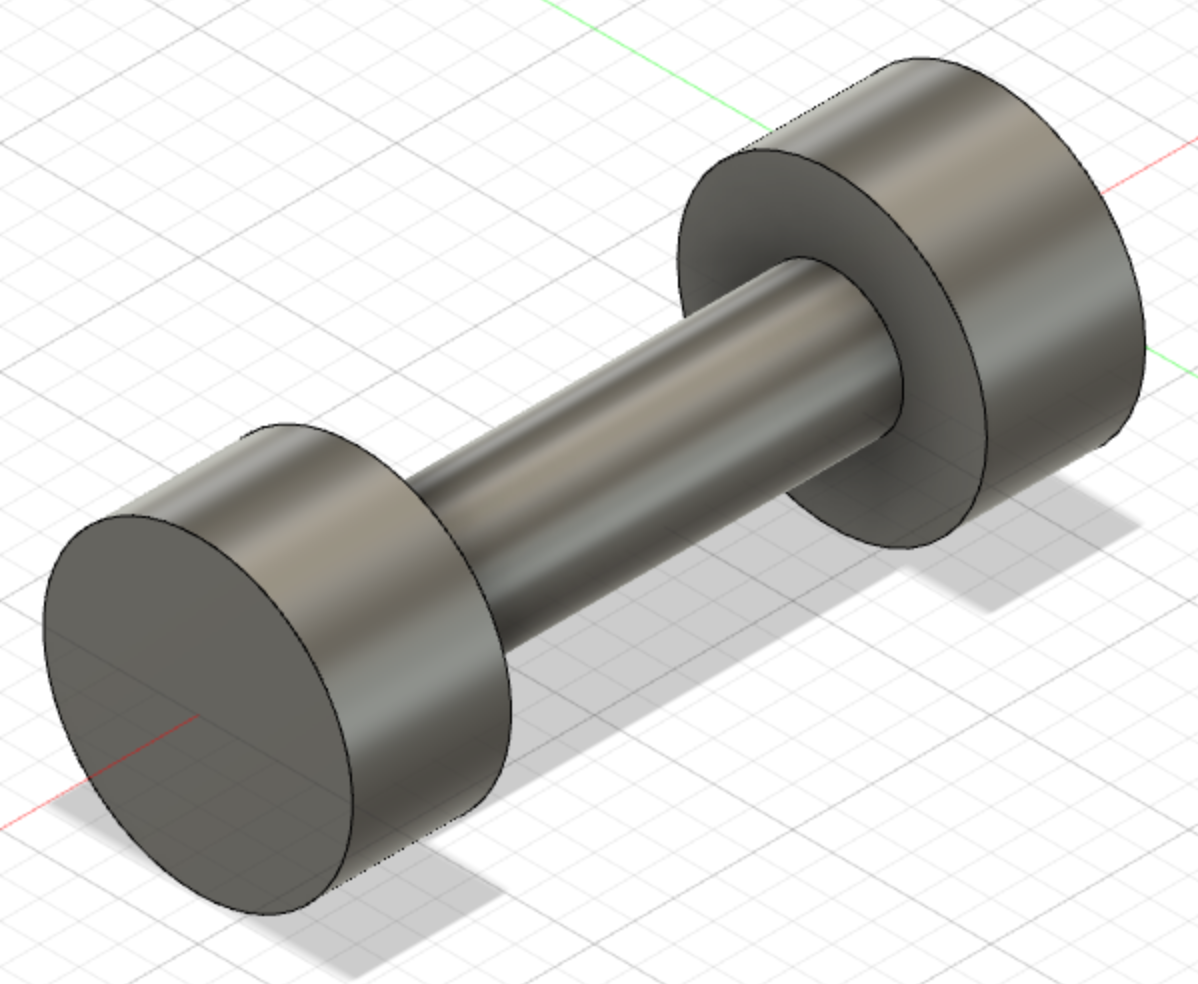
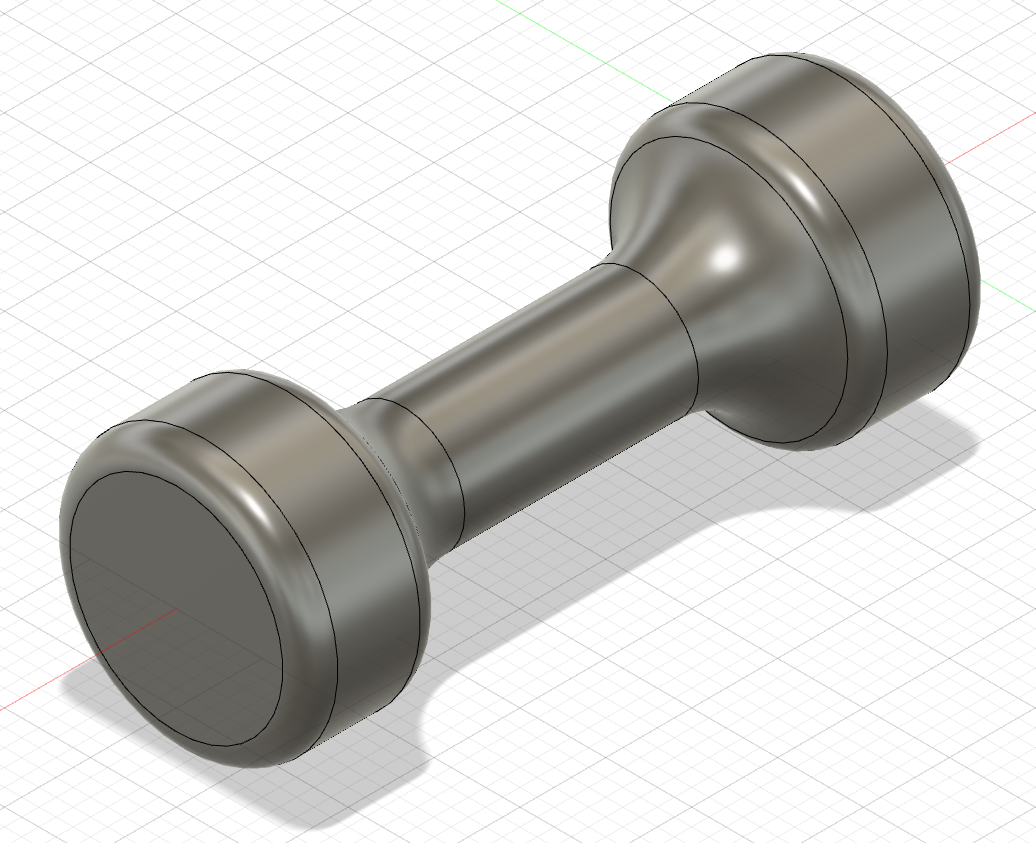
dumbell fix

diff --git a/pages/classii.html b/pages/classii.html
@@ -143,7 +143,7 @@
           <div class="subsubsection">
             <h4>model 3: the dumbell</h4>
             <p>
-              This one was probably the most complicated out of all of them, though it was still not too complex. This involved creating two short, thicker cylinders connected by a longer, thinner cylinder in the middle. Smoothing out the edges was probably the most annoying part of it all, which is why I sort of gave up on it after a while of messing around with it. The result was also pretty nice.
+              This one was probably the most complicated out of all of them, though it was still not too complex. This involved creating two short, thicker cylinders connected by a longer, thinner cylinder in the middle. Smoothing out the edges was probably the most annoying part of it all, but I got a pretty nice result in the end.
             </p>
             <div class="image">
               <img src="/PHYS_S-12/img/dumbell.png" alt="dumbell model">
